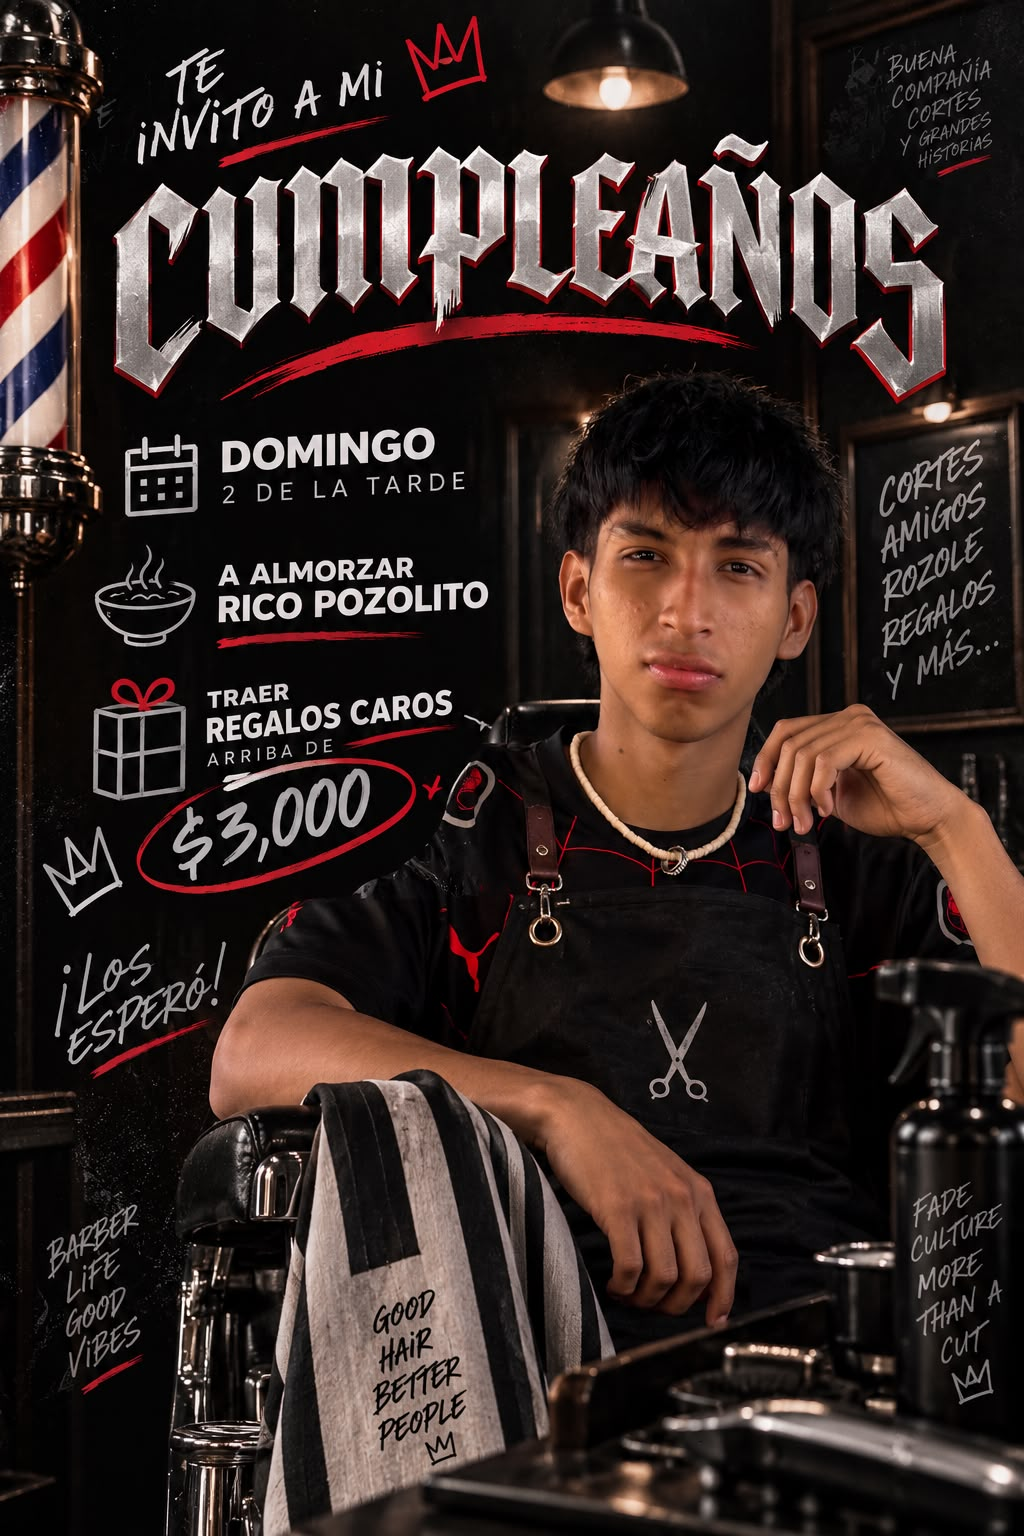
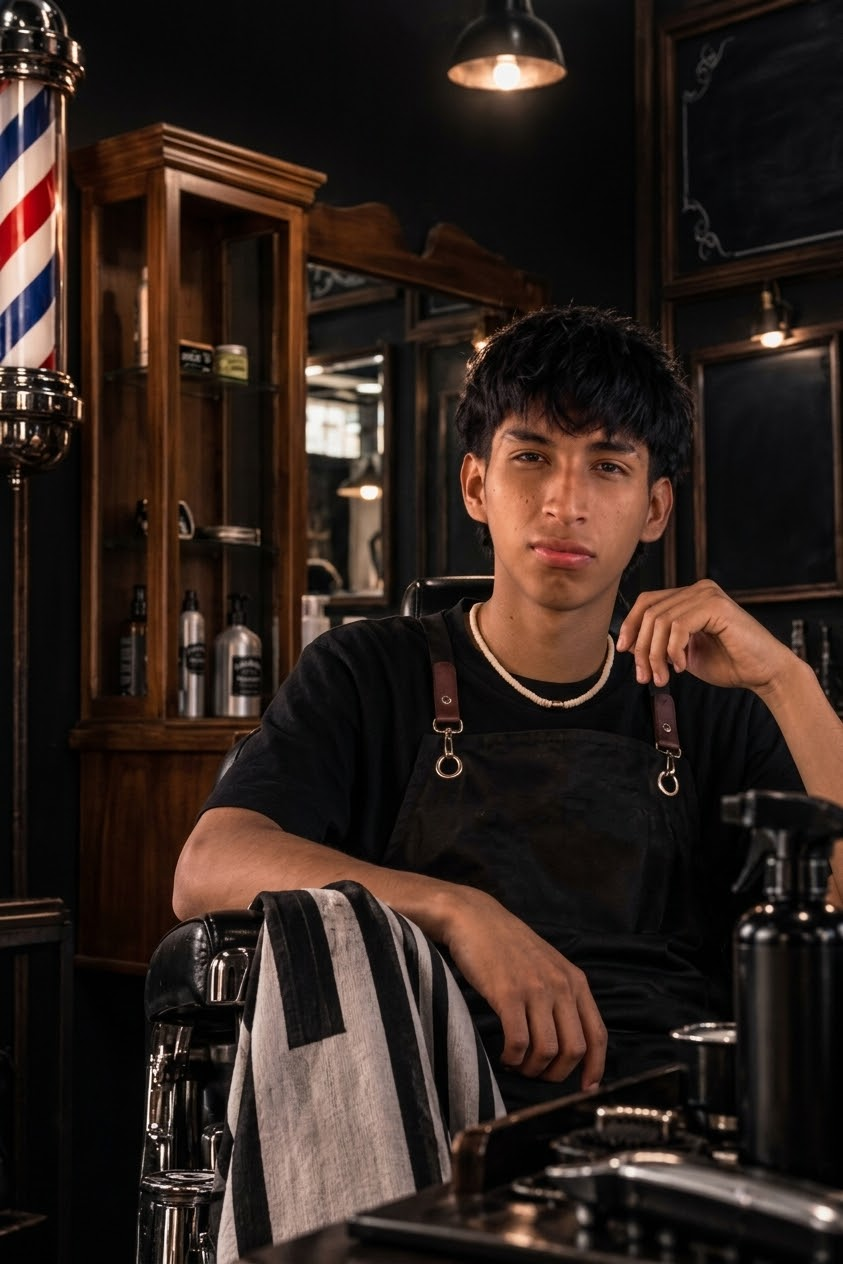
v6.1a

diff --git a/EzequiasCaamal/index.html b/EzequiasCaamal/index.html
@@ -179,7 +179,7 @@
           <h4>¿Dónde?</h4>
           <p class="card-main">La Barbería</p>
           <p class="card-sub">Calle del Arte 123 · Centro</p>
-          <a class="btn" href="https://maps.google.com" target="_blank" rel="noopener">Ver ubicación</a>
+          <a class="btn" href="https://maps.app.goo.gl/cLhkRrdYCMorrXqx5" target="_blank" rel="noopener">Ver ubicación</a>
         </article>
         <article class="card reveal-r">
           <svg class="card-ico" viewBox="0 0 56 58"><use href="#razor" /></svg>

diff --git a/EzequiasCaamal/index.js b/EzequiasCaamal/index.js
@@ -191,7 +191,7 @@ function confirmarAsistencia(event) {
   window.__rsvpBusy = true;
 
   const msg = encodeURIComponent('¡Qué onda! ✂ Confirmo mi asistencia al cumpleaños del Fede. Domingo 2 de la tarde. ¡Ahí voy!');
-  const url = 'https://wa.me/529990000000?text=' + msg;
+  const url = 'https://wa.me/529991115266?text=' + msg;
 
   const rect = event && event.currentTarget ? event.currentTarget.getBoundingClientRect() : null;
   snipConfetti(rect ? rect.left + rect.width / 2 : window.innerWidth / 2,
